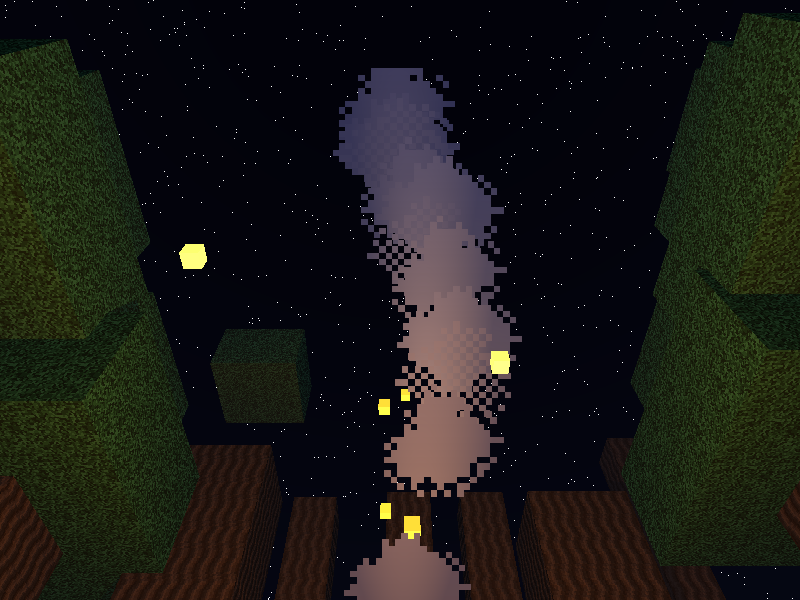
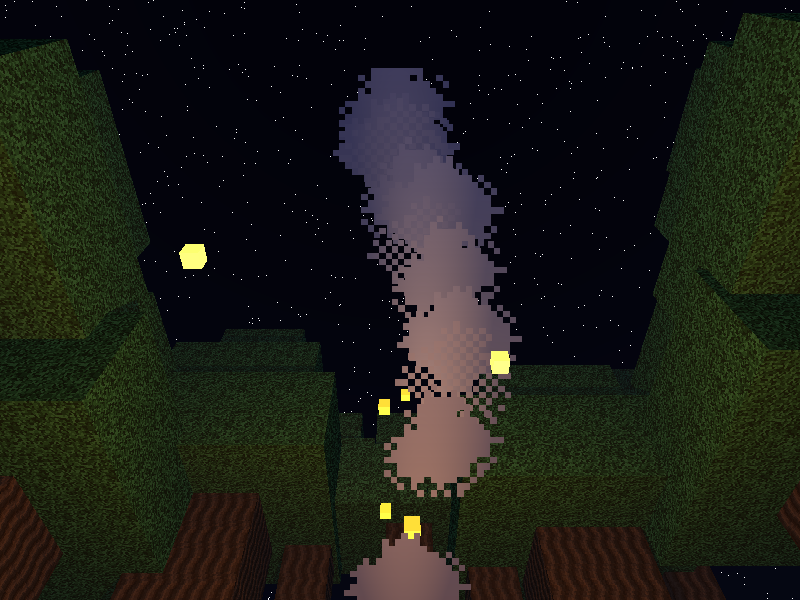
feat(scene): Agregar copas a todos los árboles perimetrales y restituir copas completas en árboles gigantes

Changed region(s): [[0.2188, 0.57, 0.8125, 0.96], [0.3125, 0.93, 0.3438, 0.96]]

diff --git a/src/scene.rs b/src/scene.rs
@@ -160,12 +160,33 @@ impl Scene {
             (5.4, 8.5, 8.0f32),
             (7.8, 8.6, 7.8f32),
         ];
-        for &(px, pz, ph) in &perimeter_trunks {
+        for (i, &(px, pz, ph)) in perimeter_trunks.iter().enumerate() {
             let py = terrain_only_height_at(&cubes, px, pz);
             cubes.push(Cube::new_box(
                 Vector3::new(px - 0.5, py, pz - 0.5),
                 Vector3::new(1.0, ph, 1.0),
                 mats.bark,
+            ).as_tree());
+
+            // Copa para cada árbol perimetral (capas apiladas proporcionadas al tronco 1x1)
+            let top_y = py + ph;
+            let leaf_mat = if i % 2 == 0 { mats.leaves } else { mats.leaves_alt };
+            let (w1, h1, w2, h2) = match i % 3 {
+                0 => (2.6f32, 1.6f32, 1.8f32, 1.4f32),
+                1 => (2.8f32, 1.8f32, 2.0f32, 1.2f32),
+                _ => (2.4f32, 1.6f32, 1.6f32, 1.4f32),
+            };
+
+            cubes.push(Cube::new_box(
+                Vector3::new(px - w1 * 0.5, top_y - 0.8, pz - w1 * 0.5),
+                Vector3::new(w1, h1, w1),
+                leaf_mat,
+            ).as_tree());
+
+            cubes.push(Cube::new_box(
+                Vector3::new(px - w2 * 0.5, top_y - 0.8 + h1, pz - w2 * 0.5),
+                Vector3::new(w2, h2, w2),
+                leaf_mat,
             ).as_tree());
         }
 
@@ -713,18 +734,10 @@ impl Scene {
             ).as_tree());
         }
 
-        // Copas oscuras en capas apiladas con chimenea de cielo:
-        // Ningún cubo de copa se coloca en x in [-2.5, 2.5], z in [-9.0, 2.0]
+        // Copas oscuras en capas apiladas
         let top_y = min_h + total_trunk_h;
         let mut push_canopy_cube = |pos: Vector3, size: Vector3| {
-            let min_x = pos.x;
-            let max_x = pos.x + size.x;
-            let min_z = pos.z;
-            let max_z = pos.z + size.z;
-            let in_chimney = max_x > -2.5 && min_x < 2.5 && max_z > -9.0 && min_z < 2.0;
-            if !in_chimney {
-                parts.push(Cube::new_box(pos, size, leaf_mat).as_tree());
-            }
+            parts.push(Cube::new_box(pos, size, leaf_mat).as_tree());
         };
 
         match variant {

diff --git a/src/main.rs b/src/main.rs
@@ -230,9 +230,11 @@ fn main() {
     let arroyo_on = args.iter().any(|a| a == "--arroyo-on");
     let arroyo_off = args.iter().any(|a| a == "--arroyo-off");
     let elevated = args.iter().any(|a| a == "--elevated" || a == "--toma2");
+    let overview = args.iter().any(|a| a == "--overview");
     let frames_arg = args.iter().position(|a| a == "--frames").and_then(|idx| args.get(idx + 1)).and_then(|s| s.parse::<usize>().ok());
     let moving_mode = args.iter().any(|a| a == "--moving");
     let headless = args.iter().any(|a| a == "--screenshot")
+        || overview
         || check_layout
         || docs_mode
         || f1_gem
@@ -289,6 +291,8 @@ fn main() {
         arroyo_camera()
     } else if elevated {
         preset_2_camera()
+    } else if overview {
+        Camera::new(Vector3::new(0.50, 10.0, 16.5), Vector3::new(0.50, 4.20, -0.60), Vector3::new(0.0, 1.0, 0.0))
     } else {
         preset_1_camera()
     };
@@ -681,6 +685,8 @@ fn main() {
                     "screenshot_arroyo_off.png"
                 } else if elevated {
                     "screenshot_elevated.png"
+                } else if overview {
+                    "screenshot_overview.png"
                 } else {
                     "screenshot.png"
                 };
